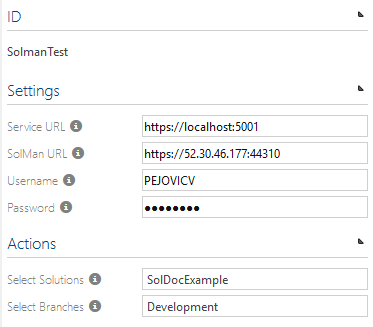
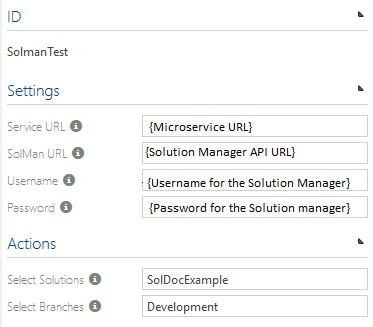
Reorganize SolMan documentation

Changed region(s): [[0.3834, 0.6116, 0.9437, 0.6728], [0.3834, 0.367, 0.7962, 0.4893], [0.3834, 0.5199, 0.9437, 0.581]]

diff --git a/docs/admin/services/sap-solution-manager-connector/Installation_ServiceInstallation.md b/docs/admin/services/sap-solution-manager-connector/Installation_ServiceInstallation.md
@@ -54,12 +54,12 @@ Download the parameters json from here:
 http://operations.symbioworld.com/
 Parameters.json will be used by the powershell sciprt called Install.ps1. 
 
-Open the paramaters.json
+Open the parameters.json
 
 The following parameters should be changed:
 ```json
 "SourcePath": - path to your zip file of the microservice 
-"BaseTargetPath": - path to where the script will unziped
+"BaseTargetPath": - path to where the script will be unzipped
 "InstanceName" : - should be Symbio-Service-SolMan
 "IISSettings":
         "SiteName": - should be Symbio-Service-SolMan
@@ -77,9 +77,10 @@ The following parameters should be changed:
     "ConfigStoreConnection": - give right connection string to the database( you have to create the database yourself)
 ```
         
-### 2.3 Run the scipt
-Turn on powershell.
-Navigate to the folder where you scipt is.
+### 2.3 Run the script
+
+Turn on Powershell.
+Navigate to the folder where you script is.
 Run the command :
 Set-ExecutionPolicy
 Provide the parameter called Execution policy : unrestricted.
@@ -96,57 +97,8 @@ Then run the following line:
 ### 2.4 Set the SAP Solution Manager certificate to be trusted
  The client should provide te valid certificates for the SAP Solution Manager microservice and for the SAP Solution Manager API.
  
- If for some reason the client cant provide the certificates, in order for the microservice to work he has to comunicate with SAP Solution Manager api.
+ If for some reason the client cant provide the certificates, in order for the microservice to work he has to communicate with SAP Solution Manager API.
  SAP Solution Manager API could have a certificate that is not trusted so you  have to export it to your computer and then put it into the MMC -> Certificates-> Trusted Root Certification Authorities. This way the connection will be safe.
- 
- 
-## 3. Set up Symbio to use the service   
-
-1.  Go to Symbio System Administration home and switch to Editor mode.
-2.  Go to the admin menu, and navigate to the Extended configuration.
-3.  Create new type for an external system, and for the settings upload the SAP Solution Manager.syex file from the XmlFiles/Bin folder of the service project (if file is missing run the build.ps1 in XmlFiles to create the file).
-4.  **Important**: Check the &quot;Activate&quot; checkbox and click on the &quot;APPLY CHANGES&quot; button.
-5.  Go to the External Systems page.
-6.  Create an new instance of the external system type that you created in Step 3.
-7.  In the Service URL field enter the url of the SAP Solution Manager interface microservice.
-8.  In the SAP Solution Manager URL field enter the base url of the SAP Solution Manager API.
-9.  In the Username field enter your username for the SAP Solution Manager API.
-10. In In the Password field enter your password for the SAP Solution Manager API.
-11. If everything is configured correctly you can now select a SAP Solution Manager solution from the dropdown list.
-12. After you have selected the solution,  you can select a branch and the configuration is done.
-13. When you select storage collection, open Admin menu, open External Configuration an click on the &quot;APPLY CHANGES&quot; button.    
-14. Now, when you create new storage, you can select your SAP Solution Manager external system in External Systems. During this process Symbio will be linked to the microservice, and auth token will be created.   
-15. When storage is created, switch to an Editor mode, open Admin menu, open External Configuration an click on the &quot;APPLY CHANGES&quot; button.
-
-
-**Picutre 1 - New type for external system**   
-
-![Test](media/extConf1.PNG)
-
-
-
-**Picture 2 - Upload .SYEX file**   
-
-![Test](media/extConf2.PNG)
-
-
-
-**Picture 3 - Create new instance of SAP Solution Manager external system type**   
-
-![Test](media/extSystem1.PNG)
-
-
-
-**Picture 4 - Enter settings for SAP Solution Manager external system type**   
-
-![Test](media/extSystem2.PNG)
-
-
-
-**Picture 5 - Configure storage**  
-
-![Test](media/Storage.PNG)
-
 
 
 

diff --git a/docs/admin/services/sap-solution-manager-connector/Introduction_BasicHowTo.md b/docs/admin/services/sap-solution-manager-connector/Introduction_BasicHowTo.md
@@ -1,39 +1,14 @@
 # Introduction to SAP Solution Manager Connector
 
-In this article it is explained what is SAP Solution Manager Connector service, what are its core functionalities and what is the recommended way to use it.
-
-## Introduction   
-
-SAP Solution Manager Connector service is a tool that does the data synchronization between Symbio and SAP Solution Manager applications. The synchronization is possible in both ways, from SAP Solution Manager to Symbio and from Symbio to SAP Solution Manager, but it not bidirectional and it follows certain synchronization rules. Although the service itself can run independently, it has to be configured in Symbio in order for someone to use it.
-
-## Features overview
-
-In this section, main features of the service are explained:
-
-1. **Synchronize processes for SAP Solution Manager to Symbio**
-
-    It is possible to synchronize process structure from SAP Solution Manager to Symbio. Users are able to select a SAP Solution Manager scope, and synchronize it to Symbio. When synchronizing scope some library elements that are connected to the structure or diagram elements will also be synchronized.
-
-2. **Synchronize Library elements from SAP Solution Manager to Symbio**
-
-    SAP Solution Manager library elements such as *Logical Component Groups*, *Process Step Originals*, *Executable* and *Documents* can be synchronized to Symbio. This kind of synchronization is independent from the Scope synchronization, so one can choose wether to synchronize Processes, Library elements or both.
-
-3. **Synchronize Symbio process to SAP Solution Manager**
-
-    SAP Solution Manager connector can synchronize Symbio process structure to SAP Solution Manager. Unlike the Scope synchronization from SAP Solution Manager, here it is only possible to synchronize a single Symbio subprocess with its hierarchy in one synchronization. Users can synchronize subprocess manually or it can be synchronized on every release in Symbio.
-
-4. **Document synchronization**
-
-    It is possible to synchronize document from SAP Solution Manager to Symbio, and from Symbio to SAP Solution Manager. More details about the document synchronization can be seen here. {Link to documents}
-
+The basics of how you can use the SAP Solution Manager Connector service, are explained in the following section.
 
 ## How to use interface (basic)
 
-Under processes facet, in the architecture view, there is SAP menu bar.
+Under *PROCESSES* facet, in the *architecture* view, there is **SAP** menu bar item.
 
 ![Test](media/HowToUse1.png)
 
-Under SAP menu bar, there are 3 relevant menu items for the SAP Solution Manager Connector:
+Under **SAP** menu bar, there are 3 relevant menu items for the SAP Solution Manager Connector:
 
 ![Test](media/HowToUse2.png)
 
@@ -79,7 +54,5 @@ Under SAP menu bar, there are 3 relevant menu items for the SAP Solution Manager
     The same effect can be achieved by releasing the subprocess which has the attribute 'Sync on release' set to true:
 
     ![Test](media/SyncOnRelease.png)
-
-## Recommended way to use the SAP Solution Manager Connector
 
 

diff --git a/docs/admin/services/sap-solution-manager-connector/SolManToSymbio_LibraryObjectsSync.md b/docs/admin/services/sap-solution-manager-connector/SolManToSymbio_LibraryObjectsSync.md
@@ -1,0 +1,41 @@
+# Synchronize SAP Solution Manager Library Objects to Symbio
+
+This article will explain you how are SAP Solution Manager library objects synchronized and represented in Symbio and how are they relevant to the process synchronization.
+
+***
+## Applications (Logical Component Groups)
+
+**Applications** are the Symbio equivalent to SAP Solution Managers, *Logical Component Groups*. All the *Logical Component Groups* for the selected 
+SAP Solution Managers Solution, will be imported in Symbio during the ***Linking process***. After they are imported in Symbio, these elements are readonly
+and cannot be deleted or modified.
+
+![Test](media/Applications.png)
+
+These elements can be reimported manually by clicking the ***Synchronize SAP Step Library Objects to Symbio*** in the Processes architecture view, under the SAP menu.
+
+***
+## Application services (Executables)
+
+**Application services** are the Symbio equivalent to SAP Solution Managers, *Executables*. All the *Executables* from the SAP Solution Manager branch or scope, will be imported by clicking the ***Synchronize SAP Step Library Objects to Symbio*** in the Processes architecture view, under the SAP menu. Also if they are connected to the *Process Step Original* which is part of the Scope synchronization they will be imported to Symbio. They are connected to an **Application**, just like *Executable* is connected to *LCG*. After they are imported in Symbio, these elements are readonly and cannot be deleted or modified.
+
+![Test](media/ApplicationServices.png)
+
+These elements can be reimported manually by clicking the ***Synchronize SAP Step Library Objects to Symbio*** in the Processes architecture view, under the SAP menu.
+
+***
+## Best Practice Tasks (Process Steps)
+
+All the *Process Steps Originals* from SAP Solution Manager are imported to Symbio by clicking the ***Synchronize SAP Step Library Objects to Symbio*** in the Processes architecture view, under the SAP menu. They are imported as **Best Practice Tasks**, and after the import they are readonly. **Best Practice Tasks** are connected to the **Application**, just like the connection between *Process Steps* and *Logical Component Groups* in SAP Solution Manager. Also if the *Process step* has a reference to an *Executable*, a **Best Practice Task** has a connection to **Application service**. **Best Practice Task**, can be connected to a **Local** or **Global Task** in Symbio. If a **task** is connected to the **Best Practice Task**, it will be
+synchronized as a reference to the *Process Step*, otherwise it will be linked to the **Default Process Step Original**. 
+
+![Test](media/BestPracticeTasks.png)
+
+These elements can be reimported manually by clicking the ***Synchronize SAP Step Library Objects to Symbio*** in the Processes architecture view, under the SAP menu.
+
+***
+---
+
+![Test](media/HowToUse2.png)
+
+---
+***

diff --git a/docs/admin/services/sap-solution-manager-connector/Installation_Configuration.md b/docs/admin/services/sap-solution-manager-connector/Installation_Configuration.md
@@ -1,0 +1,40 @@
+# SAP Solution Manager Connector Configuration
+
+This document contains information on how to configure Symbio to use **SAP Solution Manager Connector** service.
+
+## Configure Symbio to use the service   
+
+1.  Go to Symbio System Administration home and switch to Editor mode.
+2.  Go to the Administration menu, and navigate to the Extended configuration.
+3.  Create new *Type for an external system*, and for the settings upload the SAP Solution     Manager **.syex** file from the XmlFiles/Bin folder of the service project (if file is missing run the build.ps1 in XmlFiles to create the file).
+
+    ![Test](media/extConf1.PNG)
+    ![Test](media/extConf2.PNG)
+
+4.  **Important**: Check the &quot;Activate&quot; checkbox and click on the &quot;APPLY CHANGES&quot; button.
+5.  Go to the External Systems page.
+6.  Create an new instance of the external system type that you created in Step 3.
+
+    ![Test](media/extSystem1.PNG)
+
+7.  In the Service URL field enter the URL of the SAP Solution Manager Connector micro-service.
+8.  In the SAP Solution Manager URL field enter the base URL of the SAP Solution Manager API.
+9.  In the Username field enter your username for the SAP Solution Manager API.
+10. In the Password field enter your password for the SAP Solution Manager API.
+11. If everything is configured correctly you can now select a SAP Solution Manager solution from     the dropdown list.
+12. After you have selected the solution,  you can select a branch and the configuration is done.
+
+    ![Test](media/extSystem2.PNG)
+
+13. When you select storage collection, open Admin menu, open External Configuration an click on      the &quot;APPLY CHANGES&quot; button. 
+14. Create a Symbio storage. 
+15. When storage is created, switch to an Editor mode, open Admin menu, open Features menu, and       enable the BestPracticeTasks feature.  
+16. Go back to the storage collection. You can select your SAP Solution Manager external system       for you storage. During this process Symbio will be linked to the micro-service, and auth         token will be created.  
+
+    ![Test](media/Storage.PNG)
+
+17. When linking process is completed, enter the storage, switch to an Editor mode, open Admin        menu, open External Configuration an click on the &quot;APPLY CHANGES&quot; button.
+
+
+
+

diff --git a/docs/admin/services/sap-solution-manager-connector/Introduction_Overview.md b/docs/admin/services/sap-solution-manager-connector/Introduction_Overview.md
@@ -1,0 +1,29 @@
+# Introduction to SAP Solution Manager Connector
+
+In this article it is explained what is SAP Solution Manager Connector service, what are its core functionalities.
+
+## Introduction   
+
+SAP Solution Manager Connector service is a tool that does the data synchronization between Symbio and SAP Solution Manager applications. The synchronization is possible in both ways, from SAP Solution Manager to Symbio and from Symbio to SAP Solution Manager, but it not bidirectional and it follows certain synchronization rules. Although the service itself can run independently, it has to be configured in Symbio in order for someone to use it.
+
+## Features overview
+
+In this section, main features of the service are explained:
+
+1. **Synchronize processes for SAP Solution Manager to Symbio**
+
+    It is possible to synchronize process structure from SAP Solution Manager to Symbio. Users are able to select a SAP Solution Manager scope, and synchronize it to Symbio. When synchronizing scope some library elements that are connected to the structure or diagram elements will also be synchronized.
+
+2. **Synchronize Library elements from SAP Solution Manager to Symbio**
+
+    SAP Solution Manager library elements such as *Logical Component Groups*, *Process Step Originals*, *Executable* and *Documents* can be synchronized to Symbio. This kind of synchronization is independent from the Scope synchronization, so one can choose wether to synchronize Processes, Library elements or both.
+
+3. **Synchronize Symbio process to SAP Solution Manager**
+
+    SAP Solution Manager connector can synchronize Symbio process structure to SAP Solution Manager. Unlike the Scope synchronization from SAP Solution Manager, here it is only possible to synchronize a single Symbio subprocess with its hierarchy in one synchronization. Users can synchronize subprocess manually or it can be synchronized on every release in Symbio.
+
+4. **Document synchronization**
+
+    It is possible to synchronize document from SAP Solution Manager to Symbio, and from Symbio to SAP Solution Manager. More details about the document synchronization can be seen here. {Link to documents}
+
+

diff --git a/docs/admin/services/sap-solution-manager-connector/Introduction_RecommendedUse.md b/docs/admin/services/sap-solution-manager-connector/Introduction_RecommendedUse.md
@@ -1,0 +1,6 @@
+# Introduction to SAP Solution Manager Connector
+
+In the following article, the recommended way to use the service is explained. Of course, you are free to use the service in a way that best suit your needs.
+
+## Recommended way to use the SAP Solution Manager Connector
+
